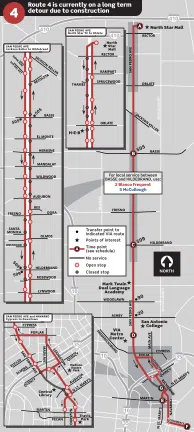
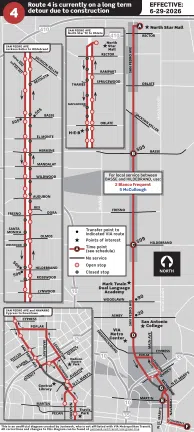
june 27 2026 part 1 | more detour stuff

diff --git a/transit/via/green-line/index.html b/transit/via/green-line/index.html
@@ -80,7 +80,7 @@
         <div class="saya-body">
             <a name="section-detours"></a>
             <h2 class="saya-h2">Temporary Detours</h2>
-            <p class="saya-short-paragraph">
+            <p class="saya-paragraph">
                 Due to closures required to continue the construction of the Green Line, the following service changes will be implemented on <b>June 29, 2026</b> for an indefinite period of time:
             </p>
 
@@ -96,6 +96,27 @@
                 <a href="#detour648"><img src="../../../resources/transit/via/route-icons/648.webp" loading="lazy"></a>
             </div>
 
+            <p class="saya-paragraph">
+                Additionally, you can find diagrams that visually mark all stop closures in the table below. Just click on any of them to see an enlarged view of the maps.
+            </p>
+
+            <table class="saya-notification-wide saya-sf-w1300">
+                <tbody>
+                    <tr>
+                        <td style="background-color: #03757b; width: 10px; text-align: center; padding: 0px;"></td>
+                        <td style="background-color: #a0a1a3; padding: 4px;">
+                            <span style="text-align: left; font-weight: bold; color: white;"><u>NOTICE</u></span><br/>
+                            <span style="text-align: left; color: white;">
+                                VIA has not publicly released any detour maps on their website or in their real-time transit data.
+                                As a result, a lot of guesswork went into determining where the routes will be realigned.
+                                As such, <b>I cannot guarantee the accuracy of the information below</b> until June 30. I apologize for any inconvenience.
+                            </span>
+                        </td>
+                    </tr>
+                </tbody>
+            </table>
+            <br>
+
             <div class="saya-scrollable-element">
             <table class="saya-table saya-table-color-betterbus saya-sf-w1100">
                 <tbody>
@@ -107,43 +128,51 @@
                                 <div style="width: 8px;"></div>
                                 <span class="via-busfreq-20">San Pedro Skip</span>
                             </div>
-                            <ul>
-                                <li>Realigned between <b>San Pedro & Cypress</b> and <b>Navarro & St. Mary's</b>
-                                    <ul>
-                                        <li>Southbound trips travel to the Downtown area via Quincy, Richmond, and N St. Mary's</li>
-                                        <li>Northbound trips travel to SAC via N St. Mary's, Richmond, Quincy, Lexington, Main Avenue, Poplar, and San Pedro</li>
-                                    </ul>
-                                </li>
-                                <li>The location of several stops will change
-                                    <ul>
-                                        <li style="margin-bottom: 0px;">The following southbound stops will be changed:</li>
-                                        <details class="saya-collapsible-section detour-collapsible">
-                                            <summary></summary>
-                                            <ul>
-                                                <li>San Pedro & Rector → North Star TC</li>
-                                                <li>San Pedro & Maplewood → San Pedro & Oblate</li>
-                                                <li>H-E-B at Oblate Drive → San Pedro & Oblate</li>
-                                                <li>San Pedro & Santa Monica → San Pedro & Audubon</li>
-                                                <li>San Pedro & Hildebrand → San Pedro & Lynwood</li>
-                                                <li>San Pedro & Quincy → Quincy & Main [SE corner]</li>
-                                                <li>Navarro & Augusta → Richmond & Augusta</li>
-                                                <li>Navarro & N St. Mary's [NW corner] → Navarro & N St. Mary's [NE corner]</li>
-                                            </ul>
-                                        </details>
-                                        <li style="margin-bottom: 0px;">The following northbound stops will be changed:</li>
-                                        <details class="saya-collapsible-section detour-collapsible">
-                                            <summary></summary>
-                                            <ul>
-                                                <li>Navarro & Augusta → Navarro & N St. Mary's [SE corner]</li>
-                                                <li>San Pedro & Quincy → Navarro & N St. Mary's [SE corner]</li>
-                                                <li>San Pedro & Audubon → San Pedro & Rex</li>
-                                                <li>San Pedro & Hermine → San Pedro & Rex</li>
-                                                <li>San Pedro & Basse → San Pedro & Nova May</li>
-                                            </ul>
-                                        </details>
-                                    </ul>
-                                </li>
-                            </ul>
+                                <ul>
+                                    <li>Realigned between <b>San Pedro & Cypress</b> and <b>Navarro & St. Mary's</b>
+                                        <ul>
+                                            <li>Southbound trips travel to the Downtown area via Quincy, Richmond, and N St. Mary's</li>
+                                            <li>Northbound trips travel to SAC via N St. Mary's, Richmond, Quincy, Lexington, Main Avenue, Poplar, and San Pedro</li>
+                                        </ul>
+                                    </li>
+                                    <li>The location of several stops will change
+                                        <ul>
+                                            <li style="margin-bottom: 0px;">The following southbound stops will be changed:</li>
+                                            <details class="saya-collapsible-section detour-collapsible">
+                                                <summary></summary>
+                                                <ul>
+                                                    <li>San Pedro & Rector → North Star TC</li>
+                                                    <li>San Pedro & Maplewood → San Pedro & Oblate</li>
+                                                    <li>H-E-B at Oblate Drive → San Pedro & Oblate</li>
+                                                    <li>San Pedro & Santa Monica → San Pedro & Audubon</li>
+                                                    <li>San Pedro & Hildebrand → San Pedro & Lynwood</li>
+                                                    <li>San Pedro & Quincy → Quincy & Main [SE corner]</li>
+                                                    <li>Navarro & Augusta → Richmond & Augusta</li>
+                                                    <li>Navarro & N St. Mary's [NW corner] → Navarro & N St. Mary's [NE corner]</li>
+                                                </ul>
+                                            </details>
+                                            <li style="margin-bottom: 0px;">The following northbound stops will be changed:</li>
+                                            <details class="saya-collapsible-section detour-collapsible">
+                                                <summary></summary>
+                                                <ul>
+                                                    <li>Navarro & Augusta → Navarro & N St. Mary's [SE corner]</li>
+                                                    <li>San Pedro & Quincy → Navarro & N St. Mary's [SE corner]</li>
+                                                    <li>San Pedro & Audubon → San Pedro & Rex</li>
+                                                    <li>San Pedro & Hermine → San Pedro & Rex</li>
+                                                    <li>San Pedro & Basse → San Pedro & Nova May</li>
+                                                </ul>
+                                            </details>
+                                        </ul>
+                                    </li>
+                                </ul>
+                            <details class="saya-collapsible-section">
+                                <summary><span class="via-routeplate via-routeplate-f20">3</span> reroute diagram</summary>
+                                <a href="javascript:void(0);" onclick="GetScreenshot('Route003_GreenLineDetour.png')" class="detour-thumbnail-container">
+                                    <img class="detour-thumbnail" src="./detour-images/thumbRoute003_GreenLineDetour.webp">
+                                    <br>
+                                    <span>Click to enlarge</span>
+                                </a>
+                            </details>
                         </td>
                     </tr>
                     <tr>
@@ -154,8 +183,6 @@
                                 <div style="width: 8px;"></div>
                                 <span class="via-busfreq-20">San Pedro Frequent</span>
                             </div>
-                            <div class="detour-description-container">
-                                <div class="detour-description-item" style="max-width: 75%;">
                                     <ul>
                                         <li>Realigned between <b>San Pedro & Cypress</b> and <b>Navarro & St. Mary's</b>
                                             <ul>
@@ -208,13 +235,14 @@
                                             </ul>
                                         </li>
                                     </ul>
-                                </div>
-                                <div onclick="GetScreenshot('Route004_GreenLineDetour.png')" class="detour-description-item detour-thumbnail-container">
+                            <details class="saya-collapsible-section">
+                                <summary><span class="via-routeplate via-routeplate-f20">4</span> reroute diagram</summary>
+                                <a href="javascript:void(0);" onclick="GetScreenshot('Route004_GreenLineDetour.png')" class="detour-thumbnail-container">
                                     <img class="detour-thumbnail" src="./detour-images/thumbRoute004_GreenLineDetour.webp">
                                     <br>
                                     <span>Click to enlarge</span>
-                                </div>
-                            </div>
+                                </a>
+                            </details>
                         </td>
                     </tr>
                     <tr>

diff --git a/transit/via/green-line/style.css b/transit/via/green-line/style.css
@@ -63,12 +63,19 @@
 }
 
 .detour-thumbnail-container {
+    display: inline-block;
     background-color: white;
     border-color: gray;
     border-style: solid;
     border-width: 2px;
     margin: 8px;
     cursor: pointer;
+    text-decoration: none;
+    height: fit-content;
+}
+
+.detour-thumbnail-container span {
+    color: black;
 }
 
 .detour-thumbnail-container:hover {